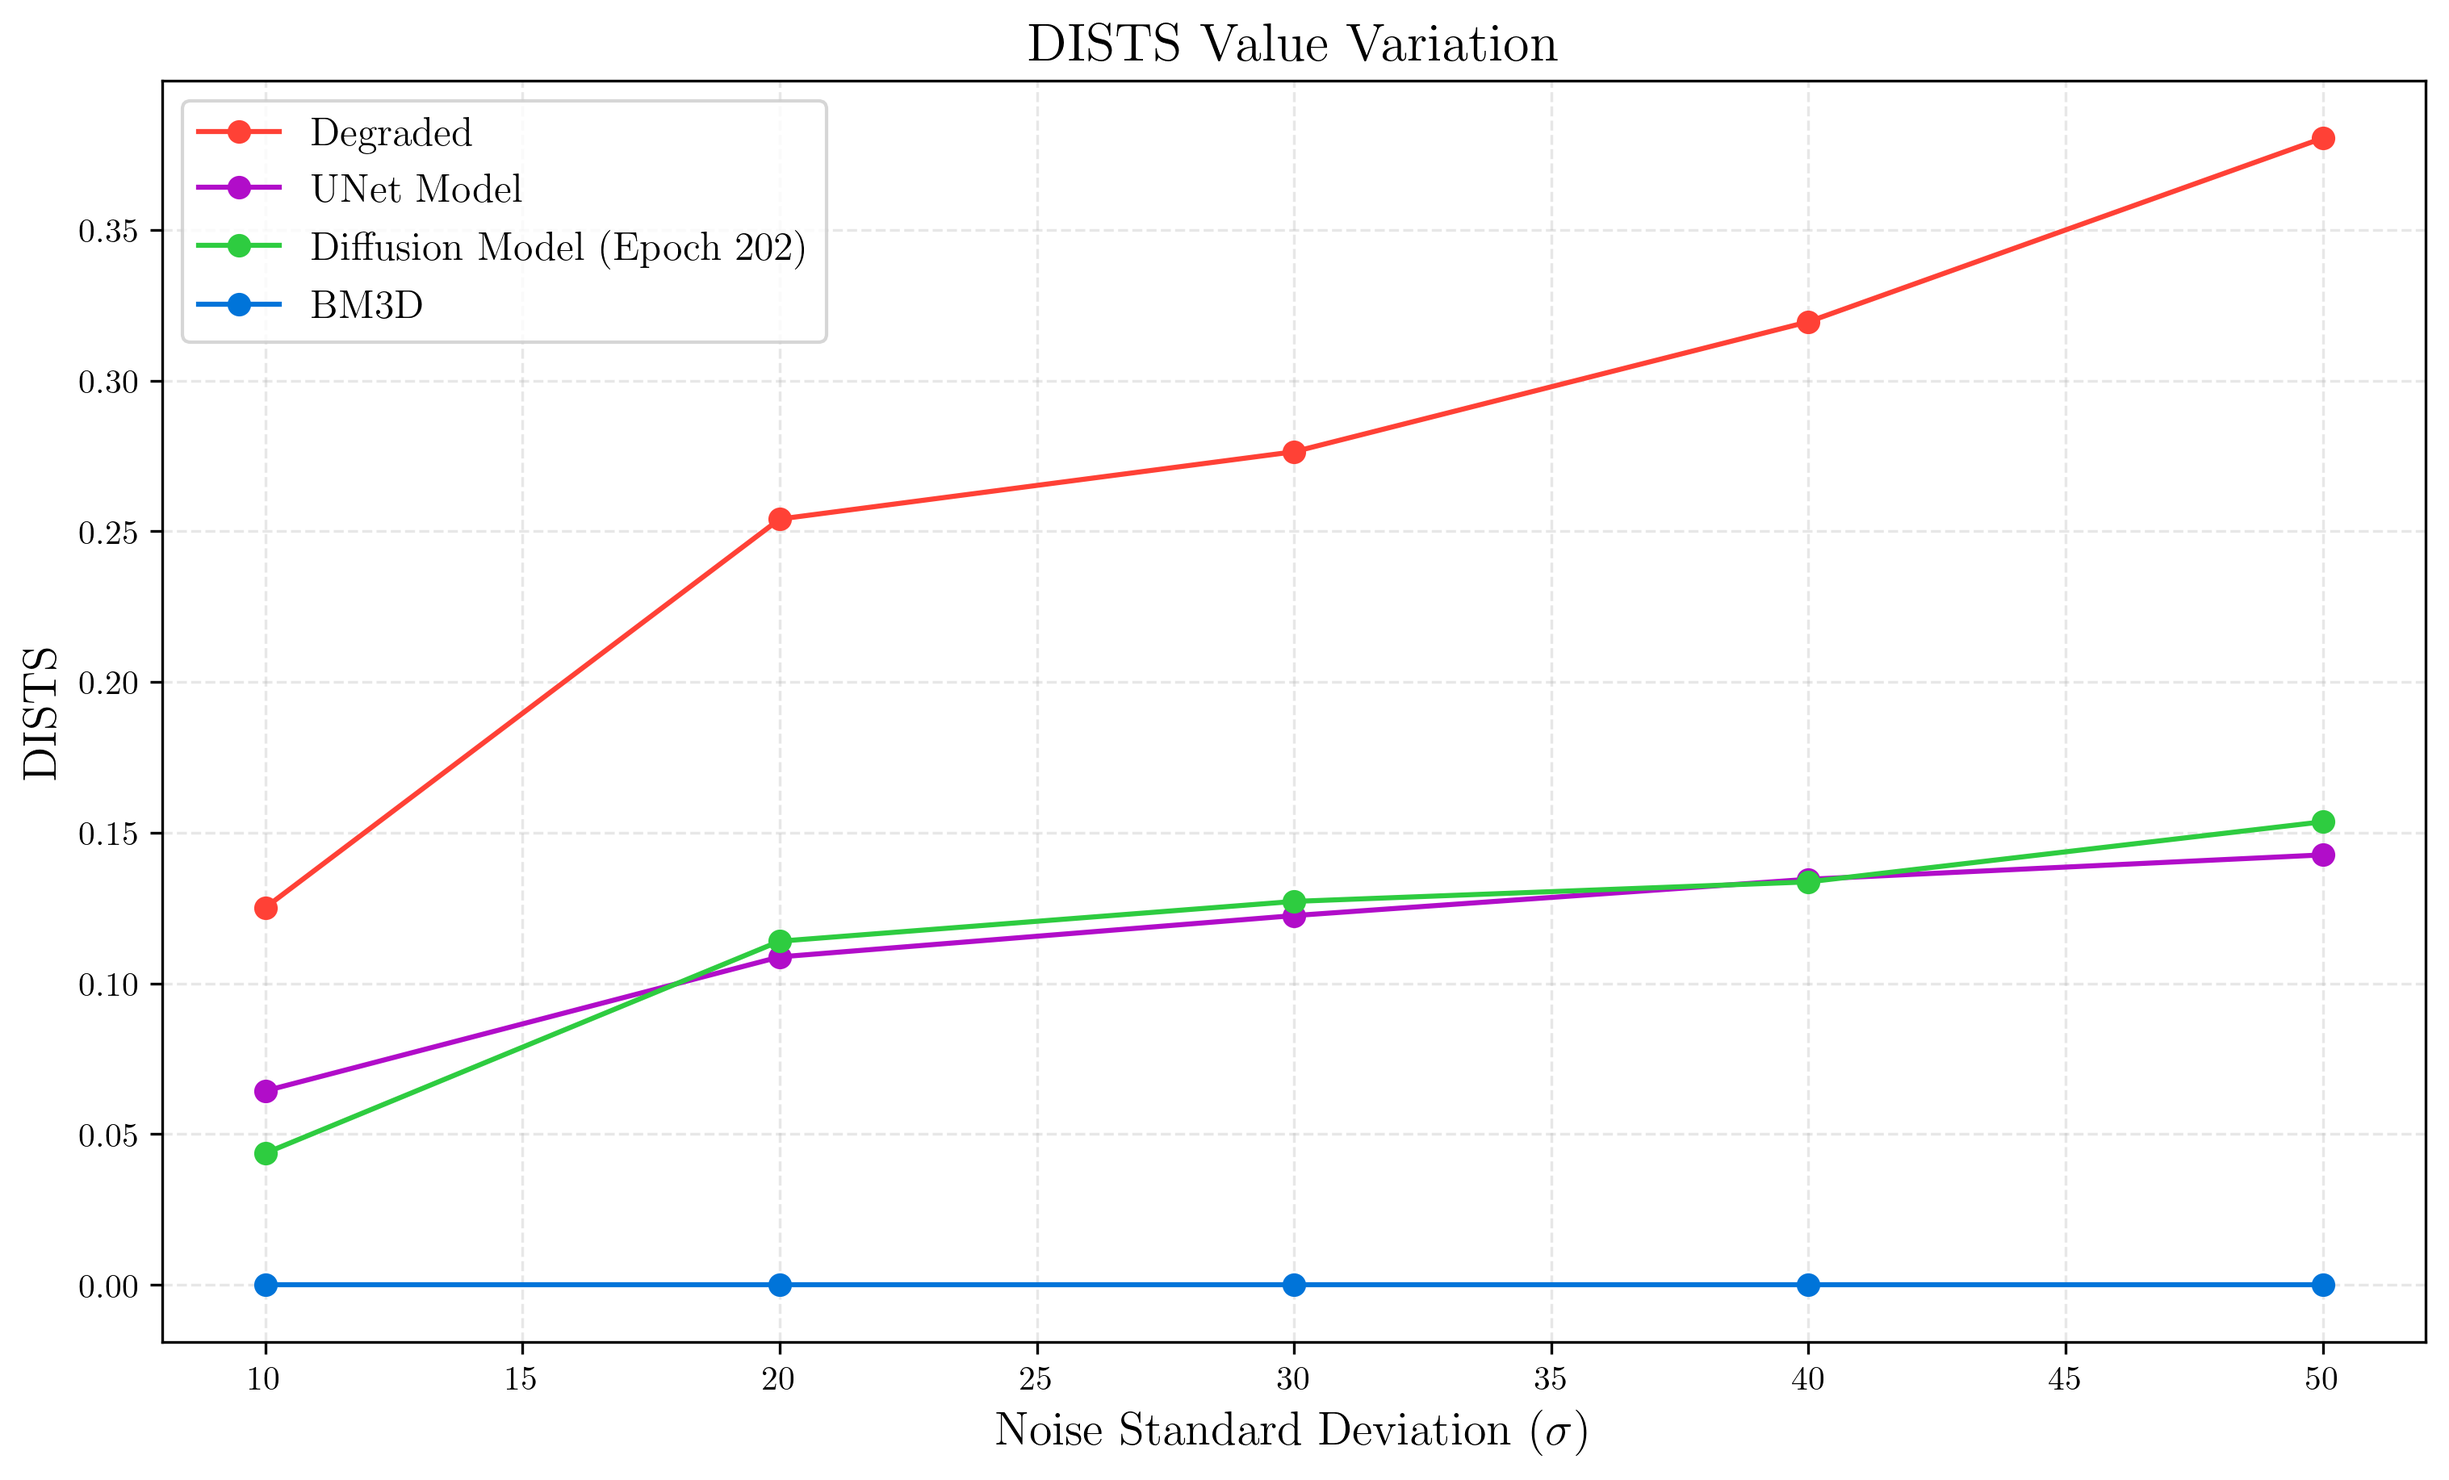
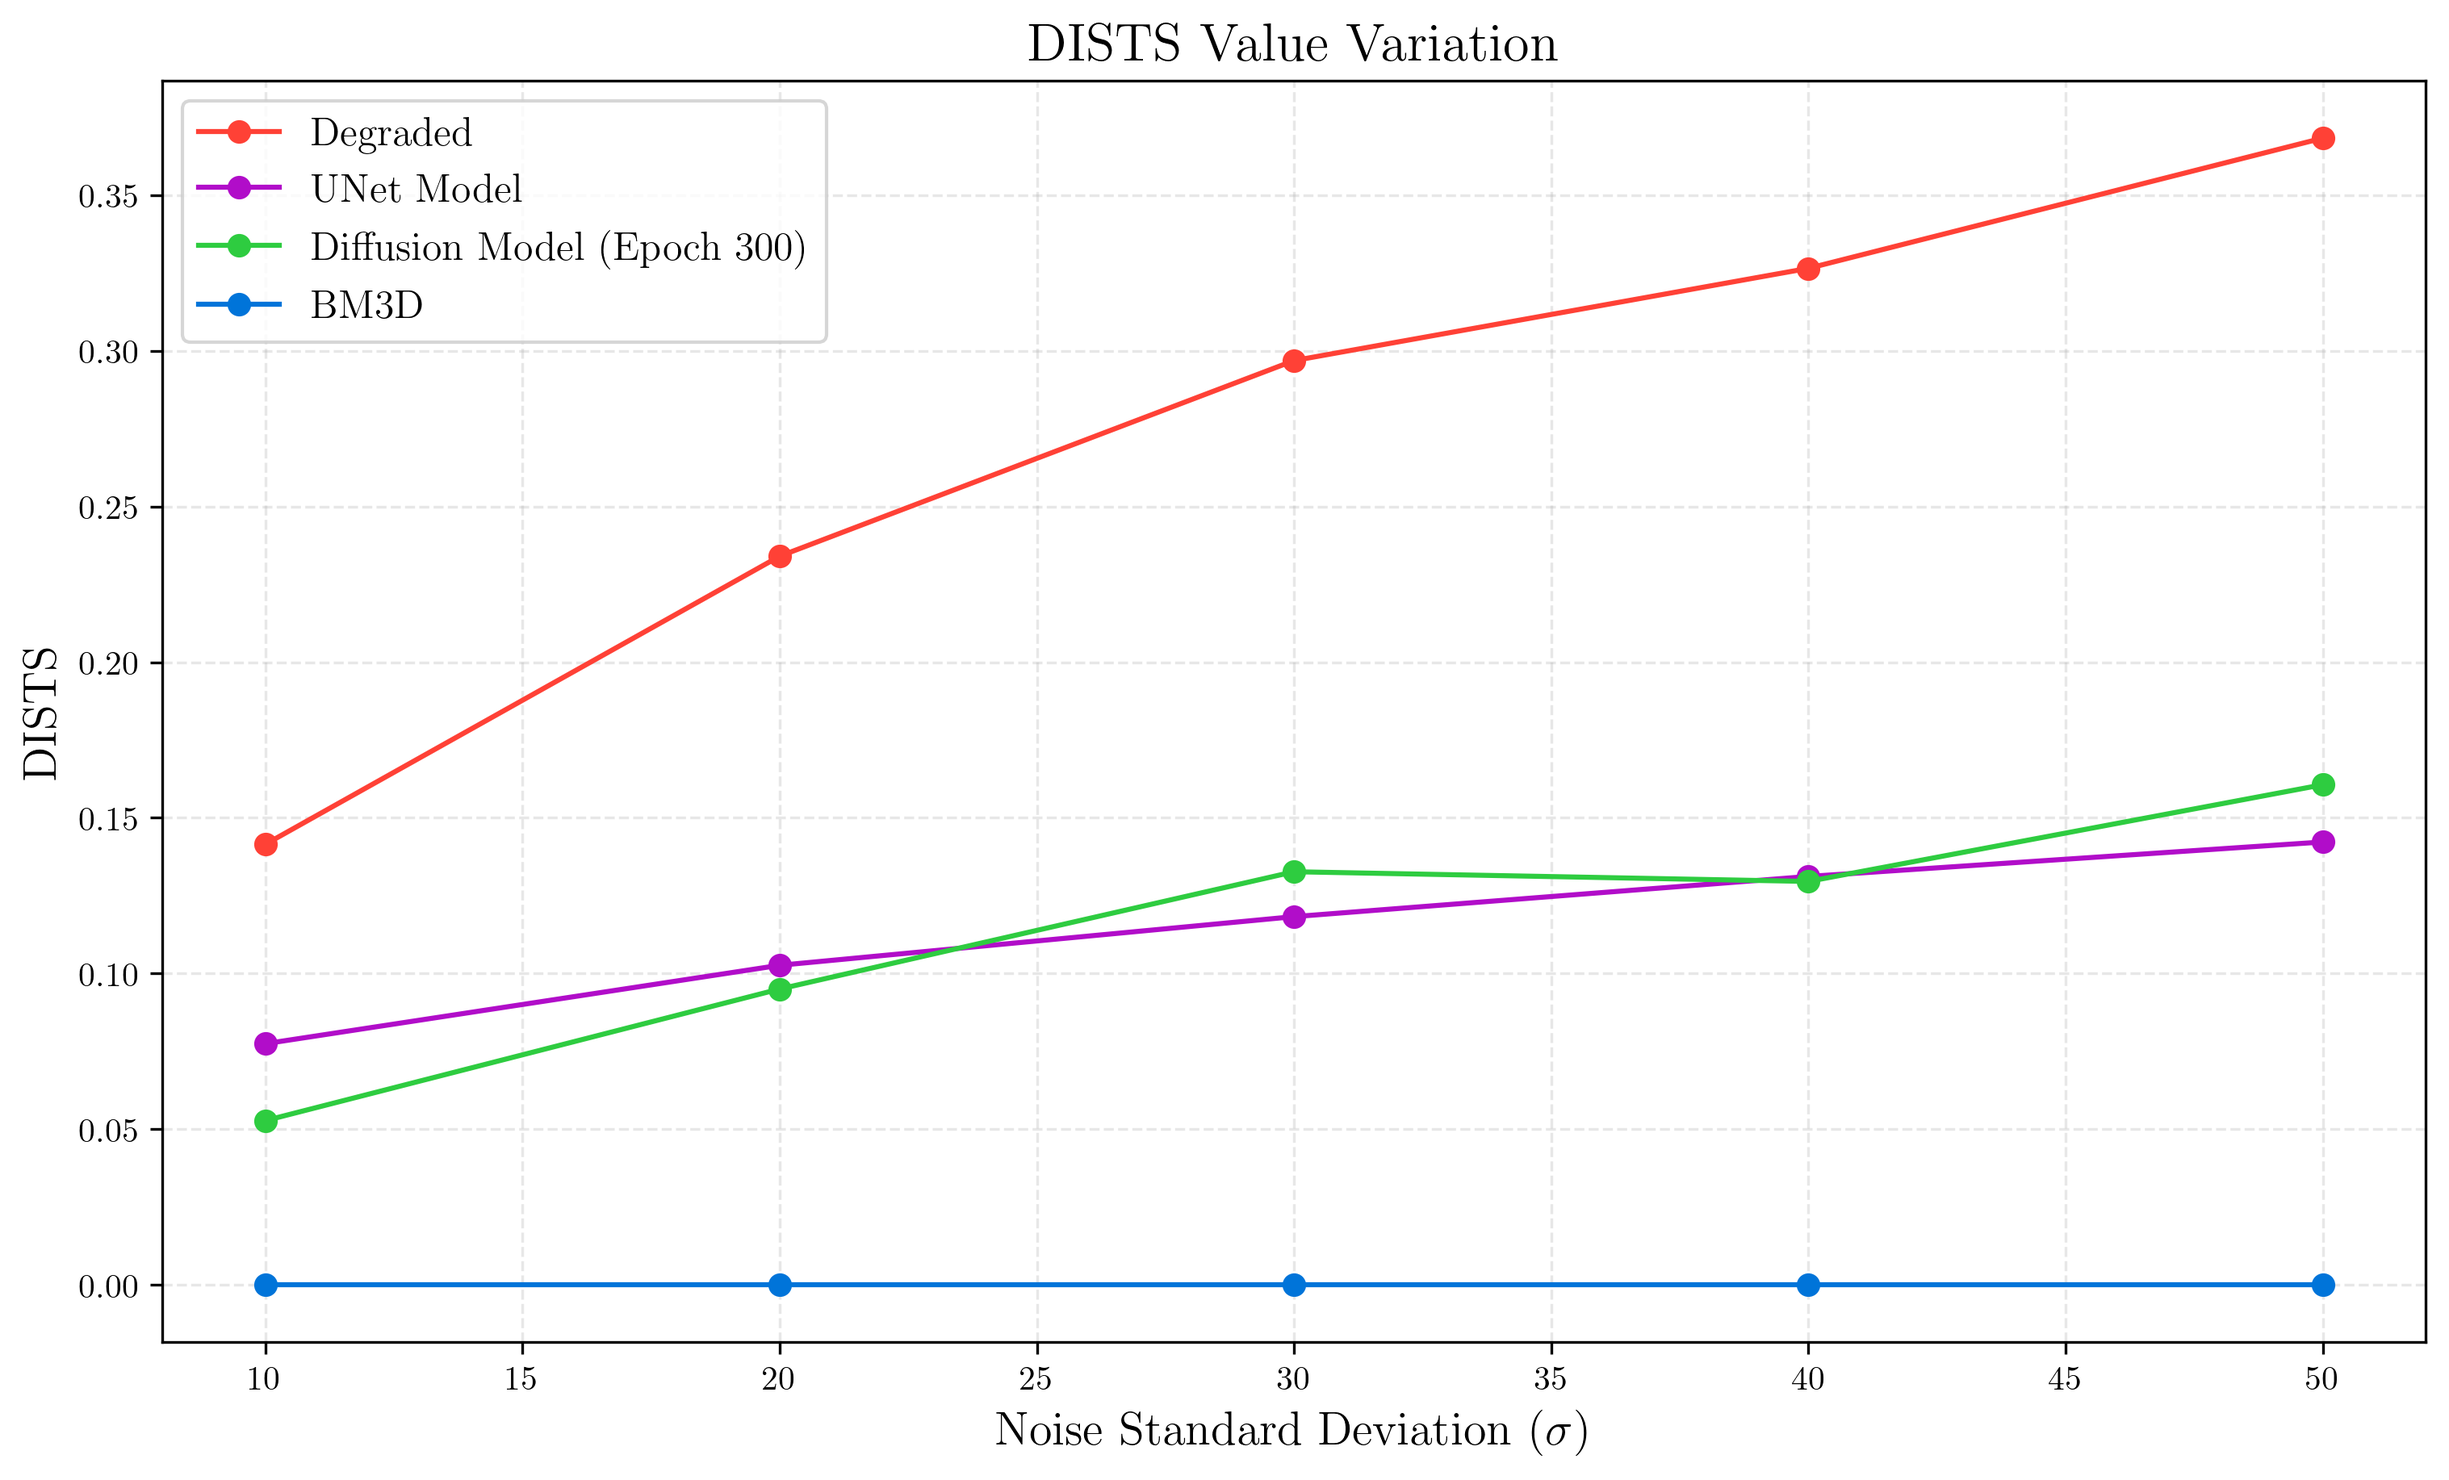
Refactor code to update model checkpoint path to use epoch 899 instead of 89

diff --git a/evaluate_Unet_diffusion/plot.py b/evaluate_Unet_diffusion/plot.py
@@ -200,10 +200,10 @@ def save_frequency_domain_analysis(metrics, last_epoch, save_dir, high_freq_thre
     ax.set_yscale('log')
 
     # Add textbox with parameters
-    textstr = rf'High Freq. Threshold: {high_freq_threshold}\\ Epoch: {last_epoch}'
-    props = dict(boxstyle='round,pad=0.5', facecolor='white', edgecolor='gray', alpha=0.8)
-    ax.text(0.05, 0.95, textstr, transform=ax.transAxes, fontsize=11,
-            verticalalignment='top', bbox=props)
+    #textstr = rf'High Freq. Threshold: {high_freq_threshold}\\ Epoch: {last_epoch}'
+    #props = dict(boxstyle='round,pad=0.5', facecolor='white', edgecolor='gray', alpha=0.8)
+    #ax.text(0.05, 0.95, textstr, transform=ax.transAxes, fontsize=11,
+    #        verticalalignment='top', bbox=props)
 
     plt.savefig(os.path.join(save_dir, 'high_frequency_domain_analysis.png'), dpi=300, bbox_inches='tight')
     plt.close()
@@ -335,10 +335,10 @@ def plot_psd_comparison(metrics, last_epoch, save_dir, high_freq_threshold=0.5):
         ax.tick_params(axis='both', which='major', labelsize=12)
         
         # Add textbox with parameters
-        textstr = rf'High Freq. Threshold: {high_freq_threshold}\\ Epoch: {last_epoch}\\ Noise Level ($\sigma$): {nl:.2f}'
-        props = dict(boxstyle='round,pad=0.5', facecolor='white', edgecolor='gray', alpha=0.8)
-        ax.text(0.95, 0.95, textstr, transform=ax.transAxes, fontsize=11,
-                verticalalignment='top', horizontalalignment='right', bbox=props)
+        # textstr = rf'High Freq. Threshold: {high_freq_threshold}\\ Epoch: {last_epoch}\\ Noise Level ($\sigma$): {nl:.2f}'
+        # props = dict(boxstyle='round,pad=0.5', facecolor='white', edgecolor='gray', alpha=0.8)
+        # ax.text(0.95, 0.95, textstr, transform=ax.transAxes, fontsize=11,
+        #        verticalalignment='top', horizontalalignment='right', bbox=props)
 
         plt.savefig(os.path.join(save_dir, f'psd_comparison_noise_level_{nl:.2f}.png'), dpi=300, bbox_inches='tight')
         plt.close()

diff --git a/evaluate_Unet_diffusion/evaluate_model.py b/evaluate_Unet_diffusion/evaluate_model.py
@@ -102,6 +102,8 @@ def evaluate_model_and_plot(epochs, diffusion_model_paths, unet_model_path, val_
     for epoch, diffusion_model_path in zip(epochs, diffusion_model_paths):
         diffusion_model = DiffusionModel(RDUNet_T(base_filters=32).to(device)).to(device)
         diffusion_checkpoint = torch.load(diffusion_model_path, map_location=device)
+        diffusion_model.timesteps = 10
+        print(diffusion_model.timesteps)
         if isinstance(diffusion_checkpoint, dict) and 'model_state_dict' in diffusion_checkpoint:
             diffusion_model.load_state_dict(diffusion_checkpoint['model_state_dict'])
         else:
@@ -313,9 +315,9 @@ if __name__ == "__main__":
     train_noise_levels = [10, 20, 30, 40, 50]
     val_noise_levels = [10, 20, 30, 40, 50]
 
-    train_loader, val_loader = load_data(image_folder, batch_size=1, num_workers=8, validation_split=0.5, augment=False, dataset_percentage=0.01, only_validation=False, include_noise_level=True, train_noise_levels=train_noise_levels, val_noise_levels=val_noise_levels, use_rgb=True)
+    train_loader, val_loader = load_data(image_folder, batch_size=1, num_workers=8, validation_split=0.5, augment=False, dataset_percentage=0.1, only_validation=False, include_noise_level=True, train_noise_levels=train_noise_levels, val_noise_levels=val_noise_levels, use_rgb=True)
 
-    epochs_to_evaluate = [202]
+    epochs_to_evaluate = [300]
     diffusion_model_paths = [f"checkpoints/diffusion_RDUnet_model_checkpointed_epoch_{epoch}.pth" for epoch in epochs_to_evaluate]
     unet_model_path = "checkpoints/rdunet_denoising.pth"
 
